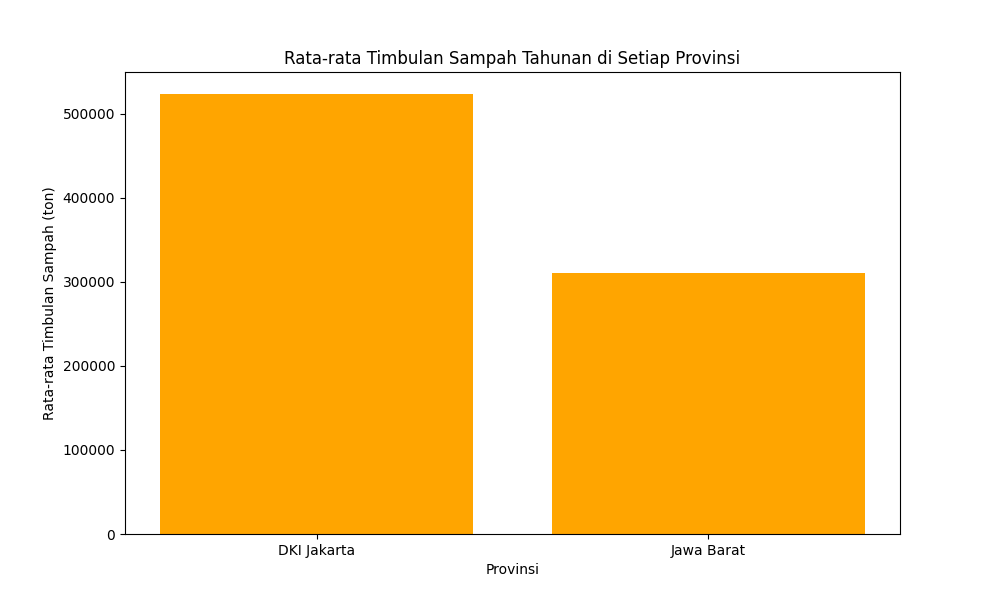
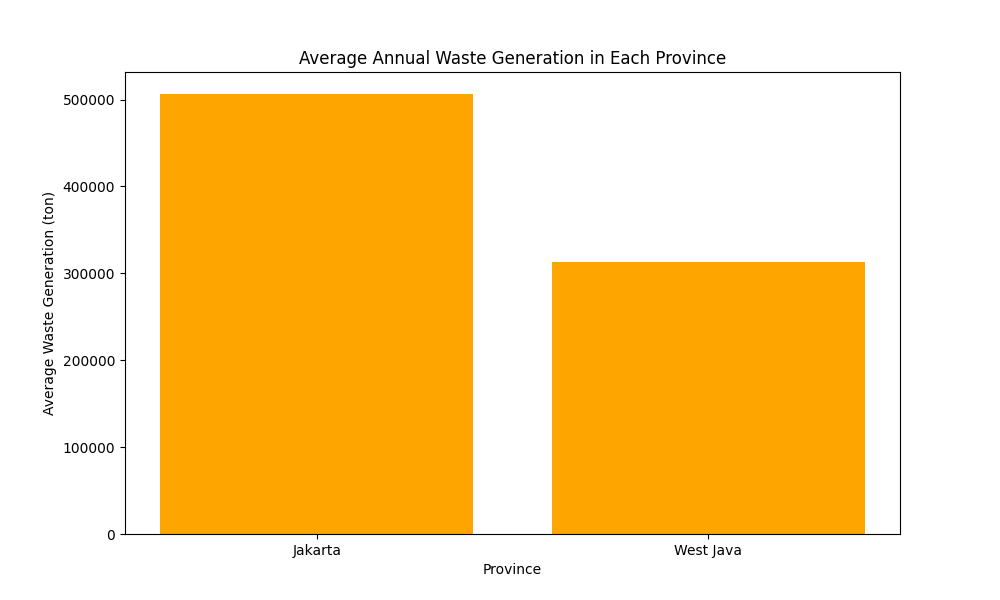
last mod

diff --git a/templates/index.html b/templates/index.html
@@ -6,7 +6,7 @@
       name="viewport"
       content="width=device-width, initial-scale=1, shrink-to-fit=no"
     />
-    <title>Visualisasi Timbulan Sampah</title>
+    <title>Waste Generation Visualization</title>
     <link
       rel="stylesheet"
       href="https://stackpath.bootstrapcdn.com/bootstrap/4.3.1/css/bootstrap.min.css"
@@ -14,28 +14,28 @@
   </head>
   <body>
     <div class="container">
-      <h1 class="mt-5">Visualisasi Timbulan Sampah</h1>
+      <h1 class="mt-5">Waste Generation Visualization</h1>
 
-      <h2>Total Sampah Tahunan di Setiap Provinsi (2023)</h2>
+      <h2>Total Annual Waste in Each Province</h2>
       <img
-        src="{{ url_for('static', filename='total_sampah_tahunan_2023.png') }}"
+        src="{{ url_for('static', filename='total_sampah_tahunan.png') }}"
         alt="Total Sampah Tahunan 2023"
       />
 
-      <h2>Rata-rata Timbulan Sampah Tahunan di Setiap Provinsi</h2>
+      <h2>Average Annual Waste Generation in Each Province</h2>
       <img
         src="{{ url_for('static', filename='rata2_sampah_tahunan.png') }}"
         alt="Rata-rata Timbulan Sampah Tahunan"
       />
 
-      <h2>Provinsi dengan Timbulan Sampah Terbanyak Setiap Tahun</h2>
+      <h2>Provinces with the Most Waste Generation Every Year</h2>
       <ul>
         {% for index, row in provinsi_terbanyak.iterrows() %}
         <li>{{ row['Tahun'] }}: {{ row['Provinsi'] }}</li>
         {% endfor %}
       </ul>
 
-      <h2>Provinsi dengan Timbulan Sampah Paling Sedikit Setiap Tahun</h2>
+      <h2>Provinces with the Least Waste Generation Every Year</h2>
       <ul>
         {% for index, row in provinsi_tersedikit.iterrows() %}
         <li>{{ row['Tahun'] }}: {{ row['Provinsi'] }}</li>

diff --git a/process_data.py b/process_data.py
@@ -1,58 +1,61 @@
 import pandas as pd
 import matplotlib.pyplot as plt
 
-# Membaca data dari file Excel
+# Read data from Excel files
 data_jabar = pd.read_excel('data/sampah_jabar.xlsx')
 data_jakarta = pd.read_excel('data/sampah_jakarta.xlsx')
 
-# Menambahkan kolom 'Provinsi' untuk kedua data
-data_jabar['Provinsi'] = 'Jawa Barat'
-data_jakarta['Provinsi'] = 'DKI Jakarta'
+# Add 'Province' column for both data
+data_jabar['Provinsi'] = 'West Java'
+data_jakarta['Provinsi'] = 'Jakarta'
 
-# Menggabungkan kedua data
+# Combines both data
 data = pd.concat([data_jabar, data_jakarta], ignore_index=True)
 
-# Menghitung total timbulan sampah tahunan di setiap provinsi untuk setiap tahun
+# Calculate the total annual waste generation in each province for each year
 total_sampah_tahunan = data.groupby(['Provinsi', 'Tahun'])[
     'Timbulan Sampah Tahunan(ton)'].sum().reset_index()
 
-# Menghitung rata-rata total timbulan sampah tahunan di setiap provinsi untuk semua tahun
+# Calculate the average total annual waste generation in each province for all years
 rata2_sampah_tahunan = data.groupby(
     'Provinsi')['Timbulan Sampah Tahunan(ton)'].mean().reset_index()
 
-# Menentukan provinsi yang menghasilkan timbulan sampah tahunan terbanyak setiap tahun
+# Determine the province that produces the most annual waste generation each year
 provinsi_terbanyak = total_sampah_tahunan.loc[total_sampah_tahunan.groupby(
     'Tahun')['Timbulan Sampah Tahunan(ton)'].idxmax()].reset_index(drop=True)
 
-# Menentukan provinsi yang menghasilkan timbulan sampah tahunan paling sedikit setiap tahun
+# Determine the province that produces the least annual waste generation each year
 provinsi_tersedikit = total_sampah_tahunan.loc[total_sampah_tahunan.groupby(
     'Tahun')['Timbulan Sampah Tahunan(ton)'].idxmin()].reset_index(drop=True)
 
-# Menyimpan hasil analisis ke file CSV
+# Save analysis results to CSV file
 total_sampah_tahunan.to_csv('total_sampah_tahunan.csv', index=False)
 rata2_sampah_tahunan.to_csv('rata2_sampah_tahunan.csv', index=False)
 provinsi_terbanyak.to_csv('provinsi_terbanyak.csv', index=False)
 provinsi_tersedikit.to_csv('provinsi_tersedikit.csv', index=False)
 
-# Membuat dan menyimpan grafik jumlah total sampah tahunan di setiap provinsi untuk tahun 2023 dalam bentuk diagram batang
+# Create and save a graph of the total annual amount of waste in each province
 plt.figure(figsize=(10, 6))
-total_sampah_2023 = total_sampah_tahunan[total_sampah_tahunan['Tahun'] == 2023]
-plt.bar(total_sampah_2023['Provinsi'],
-        total_sampah_2023['Timbulan Sampah Tahunan(ton)'], color='blue')
-plt.xlabel('Provinsi')
-plt.ylabel('Timbulan Sampah (ton)')
-plt.title('Jumlah Total Sampah Tahunan di Setiap Provinsi (2023)')
-plt.savefig('static/total_sampah_tahunan_2023.png')
+for provinsi in data['Provinsi'].unique():
+    provinsi_data = total_sampah_tahunan[total_sampah_tahunan['Provinsi'] == provinsi]
+    plt.plot(provinsi_data['Tahun'], provinsi_data['Timbulan Sampah Tahunan(ton)'], marker='o', label=provinsi)
+
+plt.xlabel('Years')
+plt.ylabel('Annual Waste Generation (ton)')
+plt.title('Total Annual Amount of Waste in Each Province (2019-2023)')
+plt.legend()
+plt.grid(True)
+plt.savefig('static/total_sampah_tahunan.png')
 plt.close()
 
-# Membuat dan menyimpan grafik rata-rata timbulan sampah tahunan di setiap provinsi
+# Create and save a graph of the average annual waste generation in each province
 plt.figure(figsize=(10, 6))
 colors = ['green' if x <= 100000 else 'orange' if x <=
           700000 else 'red' for x in rata2_sampah_tahunan['Timbulan Sampah Tahunan(ton)']]
 plt.bar(rata2_sampah_tahunan['Provinsi'],
         rata2_sampah_tahunan['Timbulan Sampah Tahunan(ton)'], color=colors)
-plt.xlabel('Provinsi')
-plt.ylabel('Rata-rata Timbulan Sampah (ton)')
-plt.title('Rata-rata Timbulan Sampah Tahunan di Setiap Provinsi')
+plt.xlabel('Province')
+plt.ylabel('Average Waste Generation (ton)')
+plt.title('Average Annual Waste Generation in Each Province')
 plt.savefig('static/rata2_sampah_tahunan.png')
 plt.close()

diff --git a/app.py b/app.py
@@ -6,7 +6,7 @@ app = Flask(__name__)
 
 @app.route('/')
 def index():
-    # Membaca data dari file CSV
+    # Read data from CSV files
     total_sampah_tahunan = pd.read_csv('total_sampah_tahunan.csv')
     rata2_sampah_tahunan = pd.read_csv('rata2_sampah_tahunan.csv')
     provinsi_terbanyak = pd.read_csv('provinsi_terbanyak.csv')

diff --git a/download_data.py b/download_data.py
@@ -1,8 +1,8 @@
 import pandas as pd
 
-# Unduh data dari tautan
+# Download data from link
 url = 'https://sipsn.menlhk.go.id/sipsn/public/data/timbulan'
 data = pd.read_html(url)[0]
 
-# Menyimpan data ke file CSV untuk kemudahan
+# Save data to CSV file for convenience
 data.to_csv('timbulan_sampah.csv', index=False)
